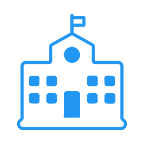
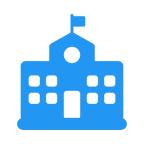
시산표 리스트뷰 수정 설정메뉴 수정 정류장 텍스트뷰 추가 아이콘 추가

diff --git a/app/src/main/java/oberis/hoseoro/SlidingTabView/ContentFragment.java b/app/src/main/java/oberis/hoseoro/SlidingTabView/ContentFragment.java
@@ -6,7 +6,8 @@ import android.database.SQLException;
 import android.database.sqlite.SQLiteDatabase;
 import android.os.Bundle;
         import android.support.v4.app.Fragment;
-        import android.view.LayoutInflater;
+import android.util.Log;
+import android.view.LayoutInflater;
         import android.view.View;
         import android.view.ViewGroup;
 import android.widget.Button;
@@ -19,6 +20,7 @@ import java.util.Date;
 
 import oberis.hoseoro.Activity.MapActivity;
 import oberis.hoseoro.Activity.TimetableActivity;
+import oberis.hoseoro.CustomTextView;
 import oberis.hoseoro.Database.HolidayAcamToCcamDB;
 import oberis.hoseoro.Database.HolidayCcamToAcamDB;
 import oberis.hoseoro.Database.TermAcamToCcamDB;
@@ -36,6 +38,7 @@ public class ContentFragment extends Fragment {
 
     Boolean shuttleMode;
     int whatDay;
+    String BusstationName;
     String dbNameCcamToAcam, dbNameAcamToCcam;
 
     TermCcamToAcamDB termCcamToAcamDB;
@@ -127,24 +130,24 @@ public class ContentFragment extends Fragment {
         RelativeLayout layout2 = (RelativeLayout) view.findViewById(R.id.fragment_layout2);
 
         Bundle args = getArguments();
+        BusstationName = args.getCharSequence(KEY_TITLE).toString();
 
         if (args != null) {
-            // 학기중 셔틀
-            if(args.getCharSequence(KEY_TITLE).equals("천안캠퍼스")) {
+            if(BusstationName.equals("천안캠퍼스")) {
                 layout.setBackgroundResource(R.drawable.bg_ccam);   // 배경이미지 설정
 
                 setStationFragment(view, "cCam", 0);    // 프래그먼트의 뷰들 처리
 
                 view.findViewById(R.id.item_timetable).setOnClickListener(onClickListener_TimetableToAcam); // 시간표 버튼 이벤트 처리
 
-            } else if(args.getCharSequence(KEY_TITLE).equals("아산캠퍼스")) {
+            } else if(BusstationName.equals("아산캠퍼스")) {
                 layout.setBackgroundResource(R.drawable.bg_acam);
 
                 setStationFragment(view, "aCam", 1);
 
                 view.findViewById(R.id.item_timetable).setOnClickListener(onClickListener_TimetableToCcam);
 
-            } else if(args.getCharSequence(KEY_TITLE).equals("천안터미널")) {
+            } else if(BusstationName.equals("천안터미널")) {
                 layout.setBackgroundResource(R.drawable.bg_terminal1);
                 layout2.setBackgroundResource(R.drawable.bg_terminal2);
 
@@ -154,7 +157,7 @@ public class ContentFragment extends Fragment {
                 view.findViewById(R.id.item_timetable).setOnClickListener(onClickListener_TimetableToCcam);
                 view.findViewById(R.id.item_timetable2).setOnClickListener(onClickListener_TimetableToAcam);
 
-            } else if(args.getCharSequence(KEY_TITLE).equals("천안역")) {
+            } else if(BusstationName.equals("천안역")) {
                 layout.setBackgroundResource(R.drawable.bg_terminal1);
                 layout2.setBackgroundResource(R.drawable.bg_terminal2);
 
@@ -164,7 +167,7 @@ public class ContentFragment extends Fragment {
                 view.findViewById(R.id.item_timetable).setOnClickListener(onClickListener_TimetableToCcam);
                 view.findViewById(R.id.item_timetable2).setOnClickListener(onClickListener_TimetableToAcam);
 
-            } else if(args.getCharSequence(KEY_TITLE).equals("충무병원")) {
+            } else if(BusstationName.equals("충무병원")) {
                 layout.setBackgroundResource(R.drawable.bg_terminal1);
                 layout2.setBackgroundResource(R.drawable.bg_terminal2);
 
@@ -174,7 +177,7 @@ public class ContentFragment extends Fragment {
                 view.findViewById(R.id.item_timetable).setOnClickListener(onClickListener_TimetableToCcam);
                 view.findViewById(R.id.item_timetable2).setOnClickListener(onClickListener_TimetableToAcam);
 
-            } else if(args.getCharSequence(KEY_TITLE).equals("쌍용동")) {
+            } else if(BusstationName.equals("쌍용동")) {
                 layout.setBackgroundResource(R.drawable.bg_terminal1);
                 layout2.setBackgroundResource(R.drawable.bg_terminal2);
 
@@ -184,7 +187,7 @@ public class ContentFragment extends Fragment {
                 view.findViewById(R.id.item_timetable).setOnClickListener(onClickListener_TimetableToCcam);
                 view.findViewById(R.id.item_timetable2).setOnClickListener(onClickListener_TimetableToAcam);
 
-            } else if(args.getCharSequence(KEY_TITLE).equals("천안아산역")) {
+            } else if(BusstationName.equals("천안아산역")) {
                 layout.setBackgroundResource(R.drawable.bg_terminal1);
                 layout2.setBackgroundResource(R.drawable.bg_terminal2);
 
@@ -206,15 +209,20 @@ public class ContentFragment extends Fragment {
      */
     public void setStationFragment(View view, final String Station, int fragmentNumber) {
 
+        TextView busstation = (TextView) view.findViewById(R.id.item_busstation);
+        TextView busstation2 = (TextView) view.findViewById(R.id.item_busstation2);
         TextView destination = (TextView) view.findViewById(R.id.item_destination);
         TextView destination2 = (TextView) view.findViewById(R.id.item_destination2);
         TextView time = (TextView) view.findViewById(R.id.item_time);
         TextView time2 = (TextView) view.findViewById(R.id.item_time2);
+        TextView timetext = (TextView) view.findViewById(R.id.item_timetext);
+        TextView timetext2 = (TextView) view.findViewById(R.id.item_timetext2);
 
         switch (fragmentNumber) {
             case 0: // 특별히 천안캠퍼스 정류장의 경우
-                destination.setText("아산캠퍼스행");  // 프래그먼트 텍스트뷰 설정
-                calcTime(dbCcamToAcam, dbNameCcamToAcam, Station, time);    // 시간 계산해서 입력
+                busstation.setText(BusstationName);  // 프래그먼트 텍스트뷰 설정
+                destination.setText("아산캠퍼스행");
+                calcTime(dbCcamToAcam, dbNameCcamToAcam, Station, time, timetext, timetext2);    // 시간 계산해서 입력
 
                 // 정류장 지도 보기 버튼 리스너 처리
                 view.findViewById(R.id.item_where).setOnClickListener(
@@ -229,8 +237,12 @@ public class ContentFragment extends Fragment {
                 );
                 break;
             case 1: // 아산캠퍼스를 포함한 모든 천캠행 정류장의 경우
+                if (BusstationName.equals("쌍용동"))
+                    busstation.setText("쌍용2동");
+                else
+                    busstation.setText(BusstationName);
                 destination.setText("천안캠퍼스행");
-                calcTime(dbAcamToCcam, dbNameAcamToCcam, Station, time);
+                calcTime(dbAcamToCcam, dbNameAcamToCcam, Station, time, timetext, timetext2);
 
                 view.findViewById(R.id.item_where).setOnClickListener(
                         new Button.OnClickListener() {
@@ -244,8 +256,12 @@ public class ContentFragment extends Fragment {
                 );
                 break;
             case 2: // 뷰페이저 아래쪽에 해당하는 아캠행 정류장의 경우
+                if (BusstationName.equals("쌍용동"))
+                    busstation2.setText("쌍용3동");
+                else
+                    busstation2.setText(BusstationName);
                 destination2.setText("아산캠퍼스행");
-                calcTime(dbCcamToAcam, dbNameCcamToAcam, Station, time2);
+                calcTime(dbCcamToAcam, dbNameCcamToAcam, Station, time2, timetext, timetext2);
 
                 view.findViewById(R.id.item_where2).setOnClickListener(
                         new Button.OnClickListener() {
@@ -282,8 +298,15 @@ public class ContentFragment extends Fragment {
     };
 
 
-    // 남은 시간을 계산해서 주는 메소드
-    public void calcTime(SQLiteDatabase db, String tableName, String station, TextView time) {
+    /**
+     *  남은 시간을 계산해서 주는 메소드
+     * @param db    // 시간을 참조할 DB
+     * @param tableName // DB의 테이블 이름
+     * @param station   // 시간을 표시할 정류장
+     * @param time  // 시간을 표시할 텍스트뷰
+     * @param timetext
+     */
+    public void calcTime(SQLiteDatabase db, String tableName, String station, TextView time, TextView timetext, TextView timetext2) {
         //커서를 이용해 DB 접근
         Cursor cursor = db.rawQuery("SELECT " + station + " FROM " + tableName + ";", null);
         // DB 시간 계산
@@ -304,11 +327,17 @@ public class ContentFragment extends Fragment {
                 if (dbTime.after(nowTime)) {    // 표시할지 비교 ~ db시간이 더 늦어야 함
                     long temp = (dbTime.getTime() - nowTime.getTime()) / (60 * 1000);   // 계산
                     time.setText(String.valueOf(temp));
+                    timetext.setText("분 남음");
+                    if (timetext2 != null)  // null일때 : 천캠,아캠 페이지
+                        timetext2.setText("분 남음");
                     break;
                 }
 
                 if (cursor.isLast()) {
                     time.setText("운행종료");
+                    timetext.setText(" ");
+                    if (timetext2 != null)
+                        timetext2.setText(" ");
                     break;
                 }
             } while (cursor.moveToNext());

diff --git a/app/src/main/java/oberis/hoseoro/Activity/MainActivity.java b/app/src/main/java/oberis/hoseoro/Activity/MainActivity.java
@@ -1,5 +1,6 @@
 package oberis.hoseoro.Activity;
 
+import android.content.Context;
 import android.content.Intent;
 import android.content.res.Configuration;
 import android.os.Handler;
@@ -57,6 +58,7 @@ public class MainActivity extends AppCompatActivity {
         super.onCreate(savedInstanceState);
         setContentView(R.layout.activity_main);
 
+        // 앱을 처음기동시 설정값들을 기본으로 적용해줌
         PreferenceManager.setDefaultValues(this, R.xml.preferences, false);
 
         backKeyPressedTime = System.currentTimeMillis();    // 백버튼 클릭 초기화
@@ -69,7 +71,7 @@ public class MainActivity extends AppCompatActivity {
 
         // 앱이 처음 시작됐을 때 뷰페이저 부분을 그려주기 위함
         if (savedInstanceState == null) {
-            makeFragment(shuttleMode, whatDay); // makeFragment 메소드가 뷰페이저를 그려주는 역할
+            makeFragment(); // makeFragment 메소드가 뷰페이저를 그려주는 역할
         }
 
 
@@ -83,10 +85,10 @@ public class MainActivity extends AppCompatActivity {
             public void onCheckedChanged(RadioGroup group, int checkedId) {
                 if(checkedId == R.id.button1){
                     whatDay = 1;
-                    makeFragment(shuttleMode, whatDay);
+                    makeFragment();
                 } else if (checkedId == R.id.button2) {
                     whatDay = 2;
-                    makeFragment(shuttleMode, whatDay);
+                    makeFragment();
                 }
             }
         });
@@ -110,7 +112,17 @@ public class MainActivity extends AppCompatActivity {
         // 리스트뷰에 어댑터 연결
         adapter = new CustomDrawerAdapter(this, R.layout.custom_drawer_item, dataList);
         mDrawerList.setAdapter(adapter);
-        mDrawerList.setItemChecked(0, true); // 초기값 설정
+
+        // 설정값에 따라 앱 시작시 기본 설정값을 바꿔줌
+        String termPref_value = PreferenceManager.getDefaultSharedPreferences(this).getString(getString(R.string.termPref_key), "");
+        if (termPref_value.equals("term")) {
+            mDrawerList.setItemChecked(0, true); // 초기값 설정
+            selectItem(0);
+        } else if (termPref_value.equals("vacation")) {
+            mDrawerList.setItemChecked(1, true);
+            selectItem(1);
+        }
+
         mDrawerList.setOnItemClickListener(new DrawerItemClickListener());   // 리스트 클릭 리스너 설정
 
         // 네비게이션 드로어 열기/닫기 감지
@@ -157,11 +169,11 @@ public class MainActivity extends AppCompatActivity {
     private class DrawerItemClickListener implements ListView.OnItemClickListener {
         @Override
         public void onItemClick(AdapterView parent, View view, int position, long id) {
-            SelectItem(position);
+            selectItem(position);
         }
     }
     // 리스트 골랐을 때 작업
-    public void SelectItem(int possition) {
+    public void selectItem(int possition) {
         Bundle args = new Bundle();
         switch (possition) {
             case 0: // 학기중 셔틀 선택
@@ -270,7 +282,7 @@ public class MainActivity extends AppCompatActivity {
         RadioButton holidayRadioButton = (RadioButton) findViewById(R.id.button2);
         holidayRadioButton.setEnabled(true);
 
-        makeFragment(shuttleMode, whatDay);
+        makeFragment();
     }
     // 방학중 셔틀 버튼을 눌렀을 때
     private void setVacationMode() {
@@ -286,17 +298,15 @@ public class MainActivity extends AppCompatActivity {
         RadioButton holidayRadioButton = (RadioButton) findViewById(R.id.button2);
         holidayRadioButton.setEnabled(false);
 
-        makeFragment(shuttleMode, whatDay);
+        makeFragment();
     }
 
 
     /**
      * 뷰페이저 부분을 생성해주는 메소드
      * 프래그먼트 생성하고, 파라미터 주고, 연결까지 해주는 메소드
-     * @param shuttleMode   // 학기중/방학중 판단
-     * @param whatDay  // 평일/토요일/일요일 판단
      */
-    public void makeFragment(boolean shuttleMode, int whatDay) {
+    public void makeFragment() {
         FragmentTransaction transaction = getSupportFragmentManager().beginTransaction();
         fragment = new SlidingTabsFragment();
         Bundle bundle = new Bundle(2); // 파라미터는 전달할 데이터 개수

diff --git a/app/src/main/java/oberis/hoseoro/SettingsFragment.java b/app/src/main/java/oberis/hoseoro/SettingsFragment.java
@@ -4,22 +4,26 @@ import android.os.Bundle;
 import android.preference.ListPreference;
 import android.preference.Preference;
 import android.preference.PreferenceFragment;
+import android.widget.Toast;
+
+import oberis.hoseoro.Activity.MainActivity;
 
 // 실질적으로 설정창을 구현하는 곳
 // 참고 : http://blog.naver.com/PostView.nhn?blogId=hellocatgu&logNo=220833553648&redirect=Dlog&widgetTypeCall=true
 public class SettingsFragment extends PreferenceFragment implements Preference.OnPreferenceChangeListener{
 
-    ListPreference listPref;    // 캠퍼스 설정 프리퍼런스
+    ListPreference campusPref, termPref;    // 캠퍼스,학기 설정 프리퍼런스
 
     @Override
     public void onCreate(Bundle savedInstanceState) {
         super.onCreate(savedInstanceState);
-
         // xml로부터 설정창 불러옴
         addPreferencesFromResource(R.xml.preferences);
 
-        listPref = (ListPreference) findPreference(getString(R.string.lispref_key));
-        listPref.setOnPreferenceChangeListener(this);   // 리스너 연결
+        campusPref = (ListPreference) findPreference(getString(R.string.campusPref_key));
+        campusPref.setOnPreferenceChangeListener(this);   // 리스너 연결
+        termPref = (ListPreference) findPreference(getString(R.string.termPref_key));
+        termPref.setOnPreferenceChangeListener(this);   // 리스너 연결
     }
 
     @Override
@@ -39,18 +43,26 @@ public class SettingsFragment extends PreferenceFragment implements Preference.O
     @Override
     public boolean onPreferenceChange(Preference preference, Object o) {
 
-        if (preference == listPref) {   // 바뀐 프리퍼런스가 캠퍼스 설정 이라면
+        if (preference == campusPref) {   // 바뀐 프리퍼런스가 캠퍼스 설정 이라면
             // 바뀐 값으로 summary 수정
-            ListPreference listPreference = (ListPreference) preference;
+            ListPreference campusPreference = (ListPreference) preference;
             String value = o.toString();
-            int index = listPreference.findIndexOfValue(value);
-            listPref.setSummary(index >= 0 ? listPreference.getEntries()[index] : null);
+            int index = campusPreference.findIndexOfValue(value);
+            campusPref.setSummary(index >= 0 ? campusPreference.getEntries()[index] : null);
+            Toast.makeText(getActivity(), "캠퍼스 변경 완료", Toast.LENGTH_SHORT).show();
+        } else if (preference == termPref) {   // 바뀐 프리퍼런스가 학기 설정 이라면
+            ListPreference termPreference = (ListPreference) preference;
+            String value = o.toString();
+            int index = termPreference.findIndexOfValue(value);
+            termPref.setSummary(index >= 0 ? termPreference.getEntries()[index] : null);
+            Toast.makeText(getActivity(), "시간표 변경 완료", Toast.LENGTH_SHORT).show();
         }
         return true;
     }
 
     private void updateSummury() {
-        // 캠퍼스설정 값을 불러와서 summary값을 바꿔줌줌
-       listPref.setSummary(listPref.getEntry());
+        // 설정 값을 불러와서 summary값을 바꿔줌줌
+       campusPref.setSummary(campusPref.getEntry());
+       termPref.setSummary(termPref.getEntry());
     }
 }

diff --git a/app/src/main/java/oberis/hoseoro/SlidingTabView/SlidingTabsFragment.java b/app/src/main/java/oberis/hoseoro/SlidingTabView/SlidingTabsFragment.java
@@ -90,8 +90,8 @@ public class SlidingTabsFragment extends Fragment {
         Boolean shuttleMode = getArguments().getBoolean("shuttleMode");
         int whatDay = getArguments().getInt("whatDay");
 
-        String listref_value = PreferenceManager.getDefaultSharedPreferences(getContext()).getString(getString(R.string.lispref_key), "");
-        if (listref_value.equals("cCam")) {
+        String campusPref_value = PreferenceManager.getDefaultSharedPreferences(getContext()).getString(getString(R.string.campusPref_key), "");
+        if (campusPref_value.equals("cCam")) {
             mTabs.add(new PagerItem(getString(R.string.tab_cCam), shuttleMode, whatDay));
             mTabs.add(new PagerItem(getString(R.string.tab_terminal), shuttleMode, whatDay));
             mTabs.add(new PagerItem(getString(R.string.tab_station), shuttleMode, whatDay));
@@ -99,7 +99,7 @@ public class SlidingTabsFragment extends Fragment {
             mTabs.add(new PagerItem(getString(R.string.tab_road), shuttleMode, whatDay));
             mTabs.add(new PagerItem(getString(R.string.tab_ktx), shuttleMode, whatDay));
             mTabs.add(new PagerItem(getString(R.string.tab_aCam), shuttleMode, whatDay));
-        } else if (listref_value.equals("aCam")) {
+        } else if (campusPref_value.equals("aCam")) {
             mTabs.add(new PagerItem(getString(R.string.tab_aCam), shuttleMode, whatDay));
             mTabs.add(new PagerItem(getString(R.string.tab_ktx), shuttleMode, whatDay));
             mTabs.add(new PagerItem(getString(R.string.tab_road), shuttleMode, whatDay));

diff --git a/app/src/main/java/oberis/hoseoro/Activity/TimetableActivity.java b/app/src/main/java/oberis/hoseoro/Activity/TimetableActivity.java
@@ -116,7 +116,7 @@ public class TimetableActivity extends AppCompatActivity {
             tableColumn2.setText("천안\n터미널");
             tableColumn3.setText("천안역");
             tableColumn4.setText("충무\n병원");
-            tableColumn5.setText("쌍용동");
+            tableColumn5.setText("쌍용\n3동");
             tableColumn6.setText("KTX\n천안\n아산역");
             tableColumn7.setText("아캠\n도착");
 
@@ -143,7 +143,7 @@ public class TimetableActivity extends AppCompatActivity {
             table_Row.setText("아산캠퍼스 출발 > 천안캠퍼스 도착");
             tableColumn1.setText("아캠\n출발");
             tableColumn2.setText("KTX\n천안\n아산역");
-            tableColumn3.setText("쌍용동");
+            tableColumn3.setText("쌍용\n2동");
             tableColumn4.setText("충무\n병원");
             tableColumn5.setText("천안역");
             tableColumn6.setText("천안\n터미널");
